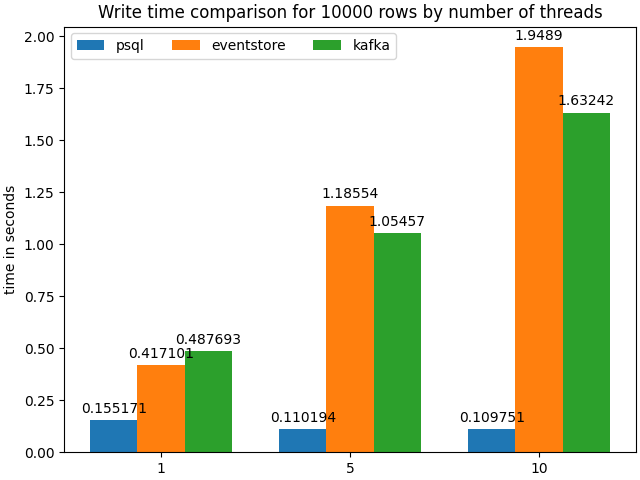
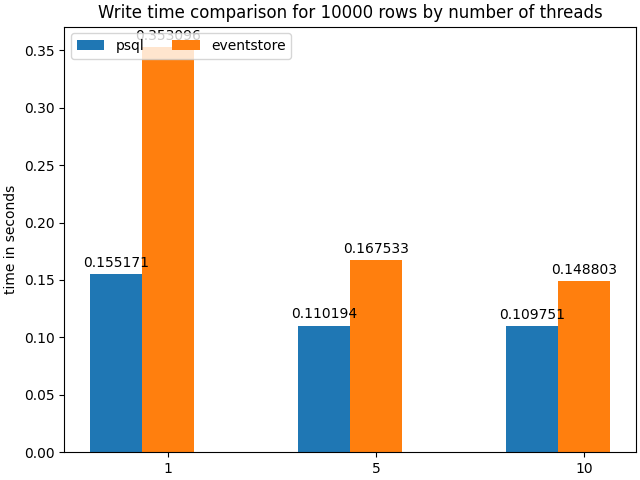
[UPD] graph for only psql and eventstore

diff --git a/graph.py b/graph.py
@@ -3,11 +3,10 @@ import numpy as np
 
 psql_write = {'1000_1': 0.016562819480895996, '1000_5': 0.022902766863505047, '1000_10': 0.03804957866668701, '10000_1': 0.15517079830169678, '10000_5': 0.11019376913706462, '10000_10': 0.10975054899851482, '100000_1': 1.0492417414983113, '100000_5': 1.3564972480138142, '100000_10': 0.9196525812149048, '1000000_1': 15.51716391245524, '1000000_5': 14.246598839759827, '1000000_10': 16.782450040181477}
 psql_read =  {'1000_1': 0.00282899538675944, '1000_5': 0.002919157346089681, '1000_10': 0.0061263640721638995, '10000_1': 0.008414665857950846, '10000_5': 0.007598479588826497, '10000_10': 0.007721225420633952, '100000_1': 0.06917726993560791, '100000_5': 0.06677226225535075, '100000_10': 0.044088403383890785, '1000000_1': 0.5007156928380331, '1000000_5': 0.5331814686457316, '1000000_10': 0.8093306620915731}
-eventstore_read = {'1000_1': 0.0014064709345499675, '1000_5': 0.0059500932693481445, '1000_10': 0.007863839467366537, '10000_1': 0.0019934972127278647, '10000_5': 0.004053473472595215, '10000_10': 0.007942994435628256, '100000_1': 0.0013862053553263347, '100000_5': 0.004203120867411296,'1000000_1': 0.001371939977010091}
-eventstore_write = {'1000_1': 0.28998108704884845, '1000_5': 0.9350300629933676, '1000_10': 1.9036891063054402, '10000_1': 0.4171011447906494, '10000_5': 1.1855440139770508, '10000_10': 1.948904315630595, '100000_1': 2.517687996228536, '100000_5': 2.069340944290161,'1000000_1': 23.800441026687622}
 kafka_write = {'1000_1': 0.40510789553324383, '10000_1': 0.4876928726832072, '100000_1': 1.0567858616511028, '1000000_1': 6.777573744455974, '1000_5': 0.9691217343012491, '10000_5': 1.0545655886332195, '100000_5': 1.4118385712305705, '1000000_5': 8.048855622609457, '1000_10': 1.6202346086502075, '10000_10': 1.6324197053909302, '100000_10': 1.8318881591161091, '1000000_10': 8.502586960792542}
 kafka_read = {'1000_1': 0.11567211151123047, '10000_1': 0.1302271286646525, '100000_1': 0.2245957056681315, '1000000_1': 1.2065948645273845, '1000_5': 0.5742926597595215, '10000_5': 0.5872522592544556, '100000_5': 0.6492248773574829, '1000000_5': 1.2406264146169026, '1000_10': 1.1474403540293376, '10000_10': 1.1723965009053547, '100000_10': 1.2555427551269531, '1000000_10': 1.4375127951304119}
-
+eventstore_read = {'1000_1': 0.00154419740041097, '1000_5': 0.0037831862767537436, '1000_10': 0.007036050160725911, '10000_1': 0.0015991528828938801, '10000_5': 0.0036472479502360025, '10000_10': 0.00661619504292806, '100000_1': 0.0014345248540242512, '100000_5': 0.004029075304667155, '100000_10': 0.006031115849812825, '1000000_1': 0.0015598138173421223, '1000000_5': 0.004068692525227864, '1000000_10': 0.006051341692606608}
+eventstore_write = {'1000_1': 0.05208452542622884, '1000_5': 0.02164284388224284, '1000_10': 0.03150169054667155, '10000_1': 0.3530960480372111, '10000_5': 0.1675333579381307, '10000_10': 0.14880271752675375, '100000_1': 1.454340895016988, '100000_5': 1.5993284781773884, '100000_10': 2.3901769320170083, '1000000_1': 12.207570552825928, '1000000_5': 11.30185580253601, '1000000_10': 12.094262997309366}
 NUM_ROWS = [1000, 10000, 100000, 1000000]
 NUM_THREADS = [1, 5, 10]
 
@@ -21,18 +20,18 @@ for num_row in NUM_ROWS:
     eventstore_list = []
     kafka_list = []
     for num_thread in NUM_THREADS:
-        psql_list.append(psql_read.get(f"{num_row}_{num_thread}", 0))
-        eventstore_list.append(eventstore_read.get(f"{num_row}_{num_thread}", 0))
-        kafka_list.append(kafka_read.get(f"{num_row}_{num_thread}", 0))
+        psql_list.append(psql_write.get(f"{num_row}_{num_thread}", 0))
+        eventstore_list.append(eventstore_write.get(f"{num_row}_{num_thread}", 0))
+        # kafka_list.append(kafka_write.get(f"{num_row}_{num_thread}", 0))
     rects = ax.bar(x + width * 0, psql_list, width, label=f"psql")
     ax.bar_label(rects, padding=3)
     rects = ax.bar(x + width * 1, eventstore_list, width, label=f"eventstore")
     ax.bar_label(rects, padding=3)
-    rects = ax.bar(x + width * 2, kafka_list, width, label=f"kafka")
-    ax.bar_label(rects, padding=3)
+    # rects = ax.bar(x + width * 2, kafka_list, width, label=f"kafka")
+    # ax.bar_label(rects, padding=3)
 
     ax.set_ylabel('time in seconds')
-    ax.set_title(f'Read time comparison for {num_row} rows by number of threads')
+    ax.set_title(f'Write time comparison for {num_row} rows by number of threads')
     ax.set_xticks(x + width, NUM_THREADS)
     ax.legend(loc='upper left', ncols=3)
-    plt.savefig(f'read_{num_row}.png')
+    plt.savefig(f'write_{num_row}.png')
